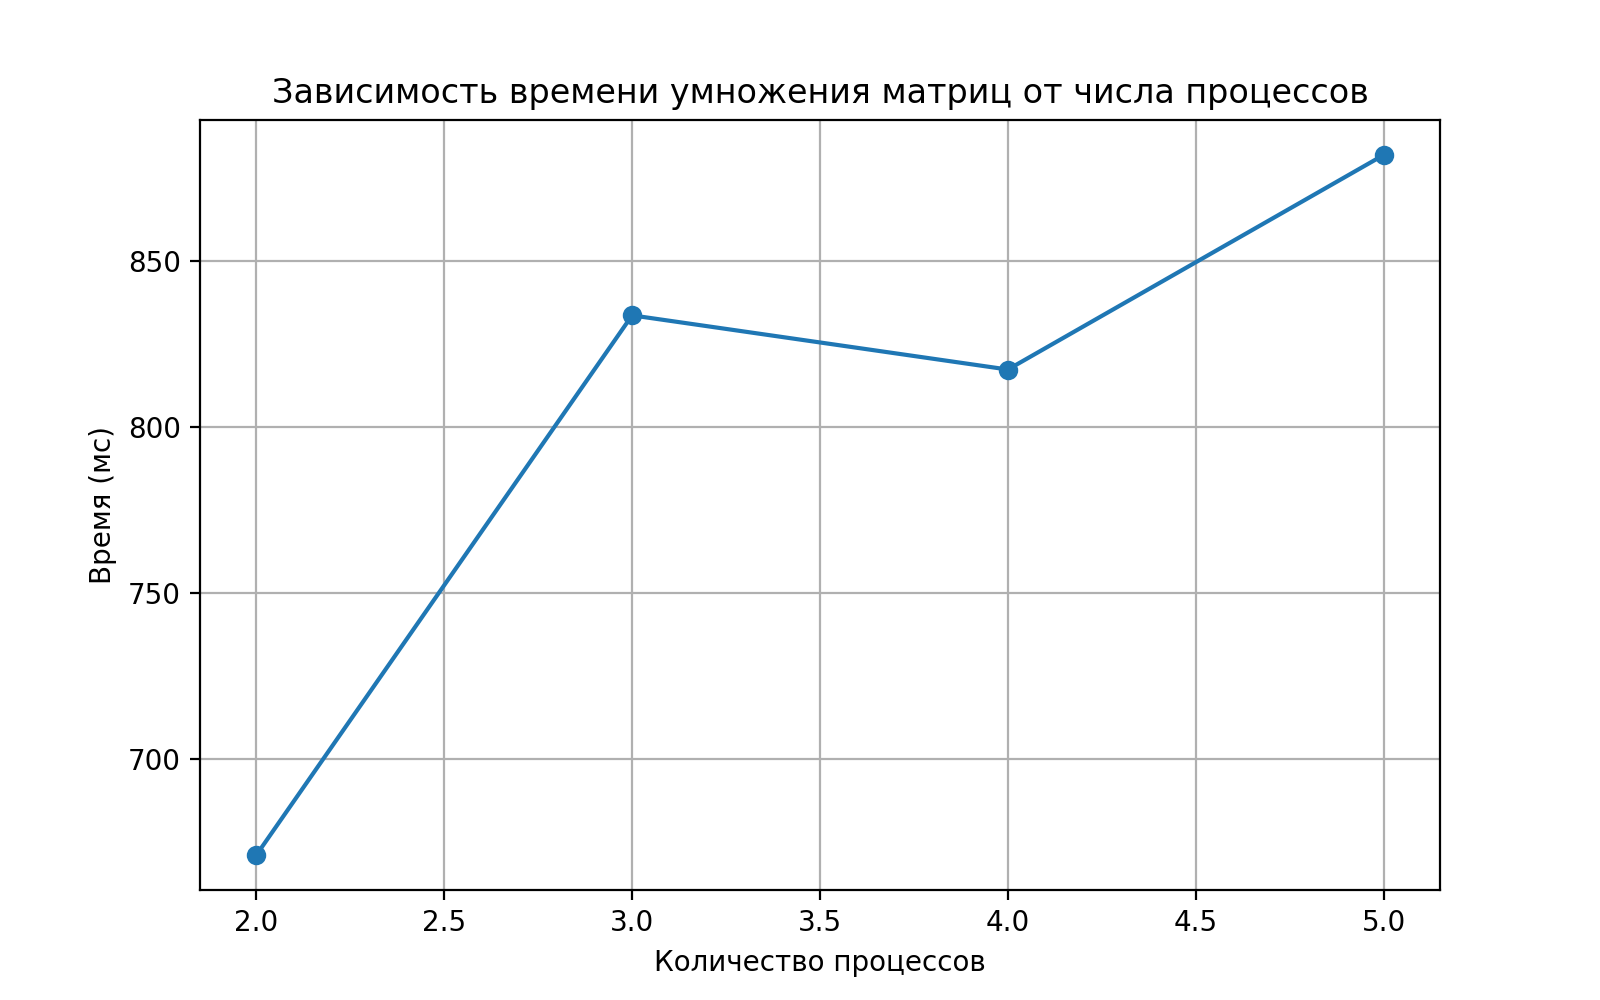
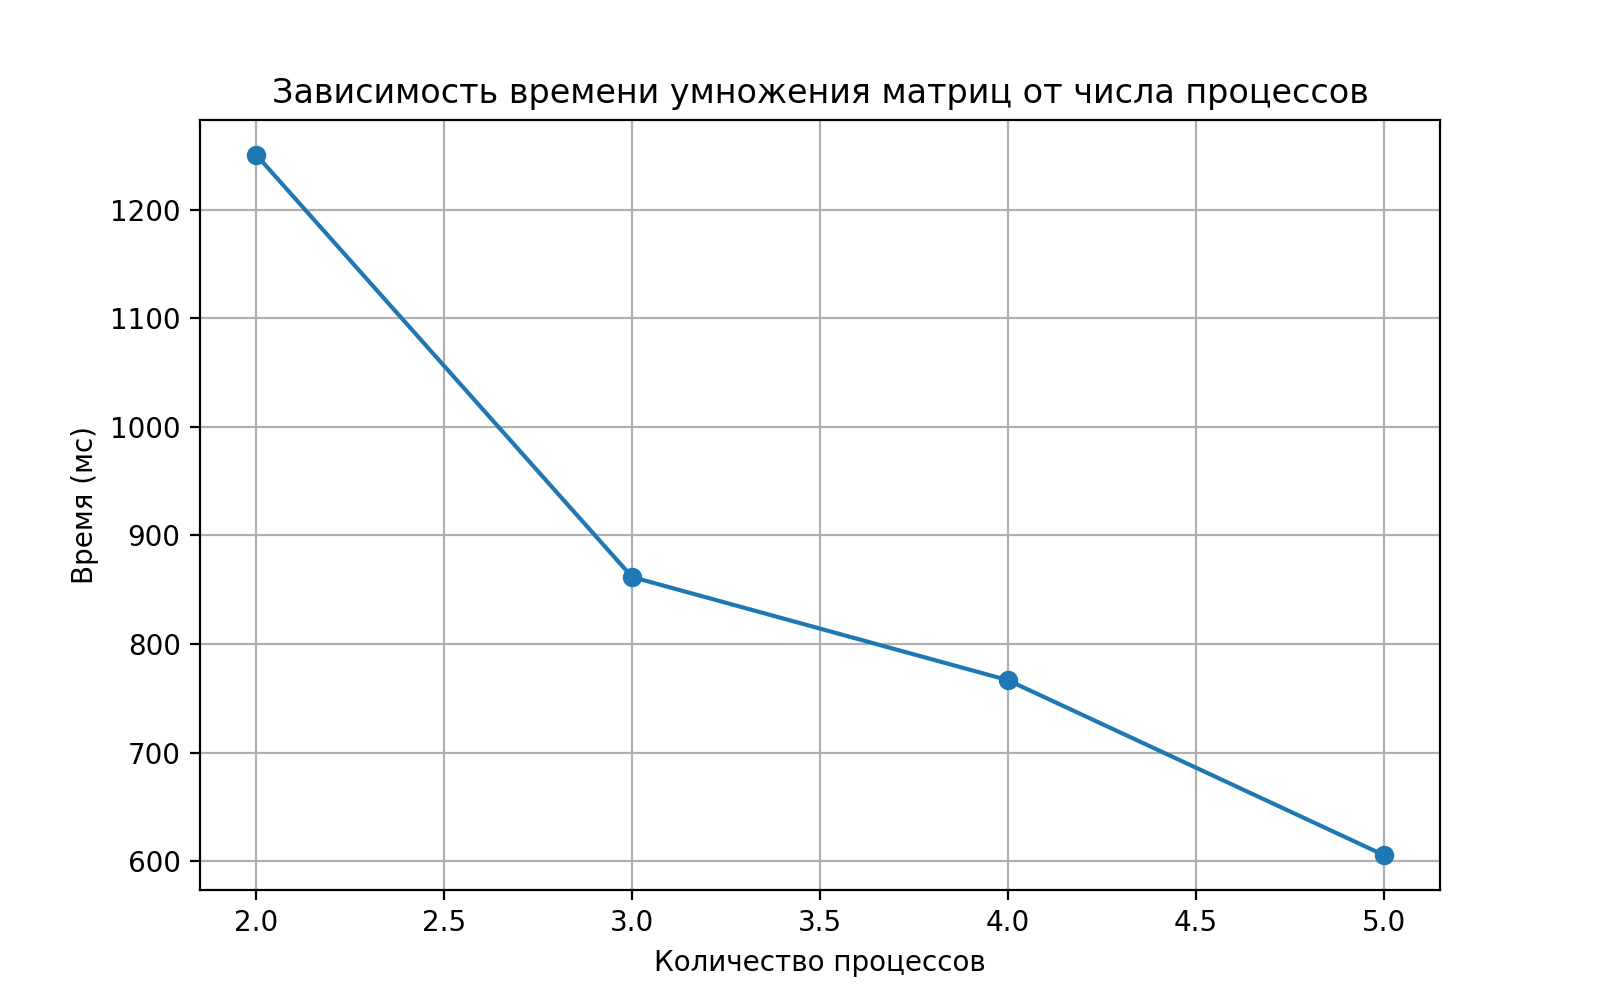
finally

diff --git a/lab2/1zadanie.cpp b/lab2/1zadanie.cpp
@@ -3,93 +3,79 @@
 #include <thread>
 #include <chrono>
 #include <fstream>
+#include <cstdlib>
 
 using Matrix = std::vector<std::vector<long long>>;
 
-void multiplyRow(const Matrix& A, const Matrix& B, Matrix& C, std::size_t row) {
-    std::size_t n = A.size();
-    for (std::size_t j = 0; j < n; ++j) {
-        long long sum = 0;
-        for (std::size_t k = 0; k < n; ++k) {
-            sum += A[row][k] * B[k][j];
+
+void multiplyPart(const Matrix& A, const Matrix& B, Matrix& C, int startRow, int endRow) {
+    int n = A.size();
+    for (int i = startRow; i < endRow; i++) {
+        for (int j = 0; j < n; j++) {
+            long long sum = 0;
+            for (int k = 0; k < n; k++) {
+                sum += A[i][k] * B[k][j];
+            }
+            C[i][j] = sum;
         }
-        C[row][j] = sum;
     }
 }
 
-Matrix multiplyMatrixThreaded(const Matrix& A, const Matrix& B) {
-    std::size_t n = A.size();             
-    Matrix C(n, std::vector<long long>(n, 0));
+int main(int argc, char* argv[]) {
+    if (argc < 3) {
+        std::cerr << "Usage: ./threads <N> <num_threads>\n";
+        return 1;
+    }
+
+    int N = std::atoi(argv[1]);
+    int T = std::atoi(argv[2]);
+
+    if (T < 1) T = 1;
+    if (T > N) T = N; 
+
+    
+    Matrix A(N, std::vector<long long>(N));
+    Matrix B(N, std::vector<long long>(N));
+    Matrix C(N, std::vector<long long>(N, 0));
+
+    for (int i = 0; i < N; i++)
+        for (int j = 0; j < N; j++) {
+            A[i][j] = rand() % 10;
+            B[i][j] = rand() % 10;
+        }
 
     std::vector<std::thread> threads;
-    for (std::size_t i = 0; i < n; ++i)
-        threads.emplace_back(multiplyRow, std::cref(A), std::cref(B), std::ref(C), i);
+    threads.reserve(T);
 
-    for (auto& t : threads) t.join();
-    return C;
-}
+    int rowsPerThread = N / T;
+    int extra = N % T;
 
-int main() {
-    // Matrix A = {
-    //     {1,2},
-    //     {3,4}
-    // };
-    // Matrix A = {
-    //     {1, 2, 3},
-    //     {4, 5, 6},
-    //     {7, 8, 9}
-    // };
-    // Matrix A = {
-    //     {1, 2, 3, 2},
-    //     {4, 5, 6, 2},
-    //     {7, 8, 9, 2},
-    //     {4, 5, 6, 7}
-    // };
-    Matrix A = {
-        {1,2,3,4,5},
-        {6,7,8,9,10},
-        {11,12,13,14,15},
-        {16,17,18,19,20},
-        {21,22,23,24,25}
-    };
-    // Matrix B = {
-    //     {2, 0, 0, 0},
-    //     {0, 2, 0, 0},
-    //     {0, 0, 2, 0},
-    //     {0, 0, 0, 2}
-    // };
-    // Matrix B = {
-    //     {1,0,0},
-    //     {0,1,0},
-    //     {0,0,1}
-    // };
-    // Matrix B = {
-    //     {1,2},
-    //     {3,4}
-    // };
-    Matrix B = {
-        {1,0,0,0,0},
-        {0,1,0,0,0},
-        {0,0,1,0,0},
-        {0,0,0,1,0},
-        {0,0,0,0,1}
-    };
+    int current = 0;
+
     auto start = std::chrono::high_resolution_clock::now();
-    Matrix C = multiplyMatrixThreaded(A, B);
-    auto end = std::chrono::high_resolution_clock::now();
 
-    long long elapsed = std::chrono::duration_cast<std::chrono::microseconds>(end - start).count();
+    for (int t = 0; t < T; t++) {
+        int startRow = current;
+        int endRow = startRow + rowsPerThread + (t < extra ? 1 : 0);
+        current = endRow;
 
-    std::cout << "Result:" << std::endl;
-    for (auto& row : C){
-        for (auto& x : row){
-            std::cout << x << "\t";
-        }
-        std::cout << std::endl;
+        threads.emplace_back(multiplyPart, std::cref(A), std::cref(B), std::ref(C), startRow, endRow);
     }
+
+    
+    for (auto& th : threads) th.join();
+
+    auto end = std::chrono::high_resolution_clock::now();
+    long long elapsed = std::chrono::duration_cast<std::chrono::milliseconds>(end - start).count();
+
+    std::cout << "Matrix multiplied. First row result:\n";
+    for (auto x : C[0]) std::cout << x << " ";
+    std::cout << "\n";
+
+
     std::ofstream file("threads.csv", std::ios::app);
-    file << elapsed << "," << A.size() << "\n";
+    file << elapsed << "," << T << "\n";
     file.close();
 
-    std::cout << "Time: " << elapsed << " microseconds\n";
+    std::cout << "Time: " << elapsed << " miilliseconds\n";
 }

diff --git a/lab2/2zadanie.cpp b/lab2/2zadanie.cpp
@@ -20,39 +20,34 @@ void multiplyRow(const Matrix& A, const Matrix& B, int* shared, int row) {
     }
 }
 
-int main() {
-    // Matrix A = {
-    //     {1,2},
-    //     {3,4}
-    // };
-    // Matrix A = {
-    //     {1, 2, 3},
-    //     {4, 5, 6},
-    //     {7, 8, 9}
-    // };
-    Matrix A = {
-        {1, 2, 3, 2},
-        {4, 5, 6, 2},
-        {7, 8, 9, 2},
-        {4, 5, 6, 7}
-    };
-    Matrix B = {
-        {2, 0, 0, 0},
-        {0, 2, 0, 0},
-        {0, 0, 2, 0},
-        {0, 0, 0, 2}
-    };
-    // Matrix B = {
-    //     {1,0,0},
-    //     {0,1,0},
-    //     {0,0,1}
-    // };
-        // Matrix B = {
-        //     {1,2},
-        //     {3,4}
-        // };
+int main(int argc, char* argv[]) {
+    if (argc != 3) {
+        std::cerr << "Usage: ./processes <matrix_size> <num_processes>\n";
+        return 1;
+    }
 
-    int n = A.size();
+    int n = std::stoi(argv[1]);
+    int p = std::stoi(argv[2]);
+
+    if (p <= 0) {
+        std::cerr << "num_processes must be > 0\n";
+        return 1;
+    }
+
+    // --- Матрицы ---
+    Matrix A(n, std::vector<int>(n));
+    Matrix B(n, std::vector<int>(n));
+
+    // Заполнение матриц
+    int value = 1;
+    for (int i = 0; i < n; i++) 
+        for (int j = 0; j < n; j++) 
+            A[i][j] = value++;
+
+    for (int i = 0; i < n; i++)
+        B[i][i] = 1;
+
+    // --- Shared memory ---
     int shm_id = shmget(IPC_PRIVATE, sizeof(int) * n * n, IPC_CREAT | 0666);
     int* shared = (int*) shmat(shm_id, nullptr, 0);
 
@@ -60,14 +55,23 @@ int main() {
 
     auto start = std::chrono::high_resolution_clock::now();
 
-    for (int i = 0; i < n; i++) {
+    // --- Распределение строк между процессами ---
+    int rows_per_proc = (n + p - 1) / p;  // потолок деления
+
+    for (int proc = 0; proc < p; proc++) {
         pid_t pid = fork();
 
         if (pid == 0) {
-            multiplyRow(A, B, shared, i);
+            int start_row = proc * rows_per_proc;
+            int end_row = std::min(start_row + rows_per_proc, n);
+
+            for (int r = start_row; r < end_row; r++)
+                multiplyRow(A, B, shared, r);
+
             shmdt(shared);
             exit(0);
-        } else {
+        }
+        else {
             pids.push_back(pid);
         }
     }
@@ -76,21 +80,13 @@ int main() {
         waitpid(pid, nullptr, 0);
 
     auto end = std::chrono::high_resolution_clock::now();
-    long long elapsed = std::chrono::duration_cast<std::chrono::microseconds>(end - start).count();
+    long long elapsed = std::chrono::duration_cast<std::chrono::milliseconds>(end - start).count();
 
     std::ofstream file("processes.csv", std::ios::app);
-    file << elapsed << "," <<  A.size() << "\n";
+    file << elapsed << "," << p << "\n";
     file.close();
-    
-    std::cout << "Result:" << std::endl;
-    
-    for (int i = 0 ; i < n; i++){
-        for (int j = 0;j < n; j++){
-            std::cout << shared[i * n + j] << "\t";
-        }
-        std::cout << std::endl;
-    }
-    std::cout << "Time (processes): " << elapsed << " microseconds\n";
+
+    std::cout << "Time: " << elapsed << " ms\n";
 
     shmdt(shared);
     shmctl(shm_id, IPC_RMID, nullptr);
